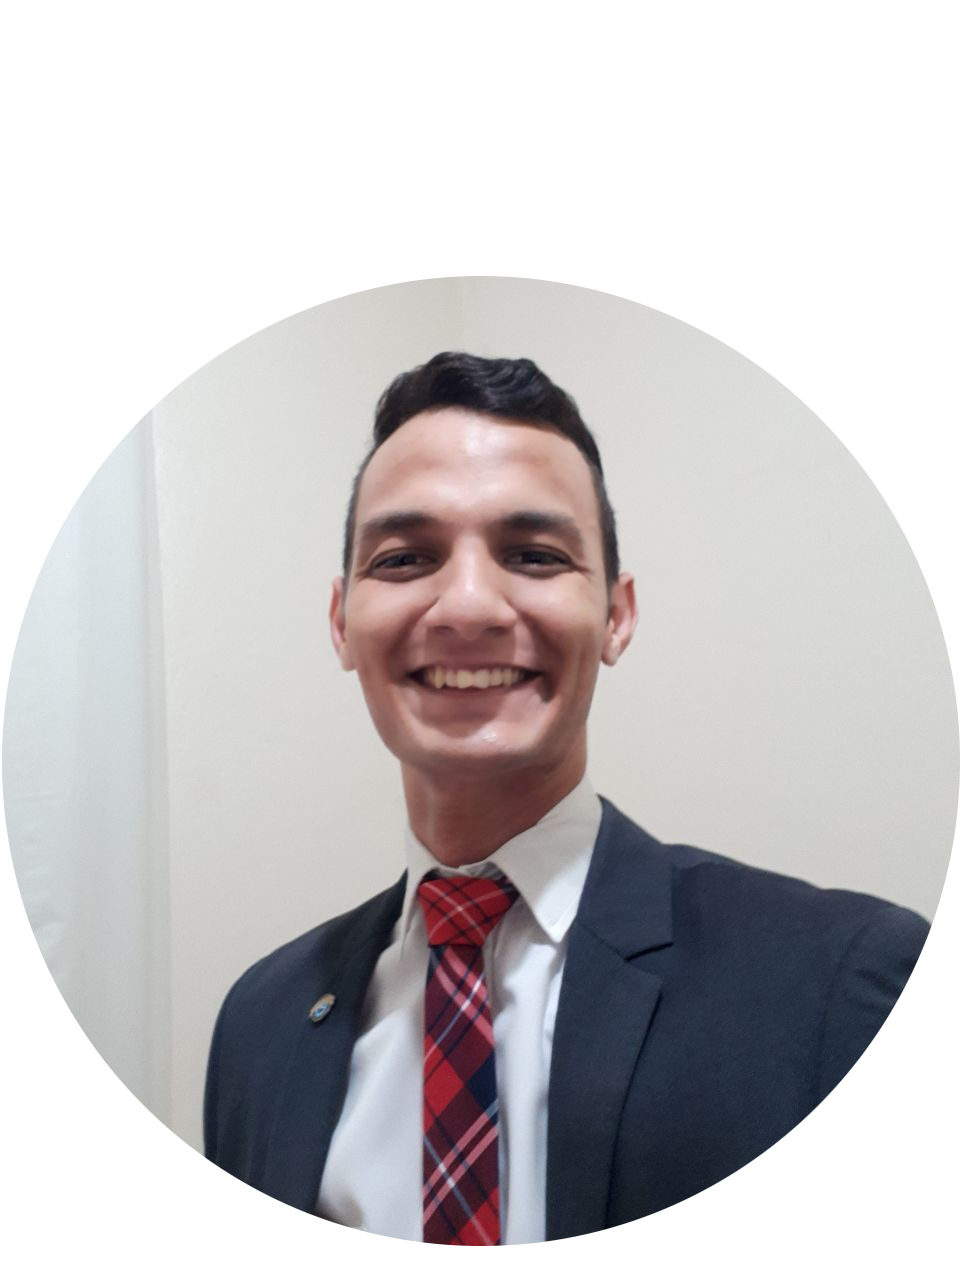
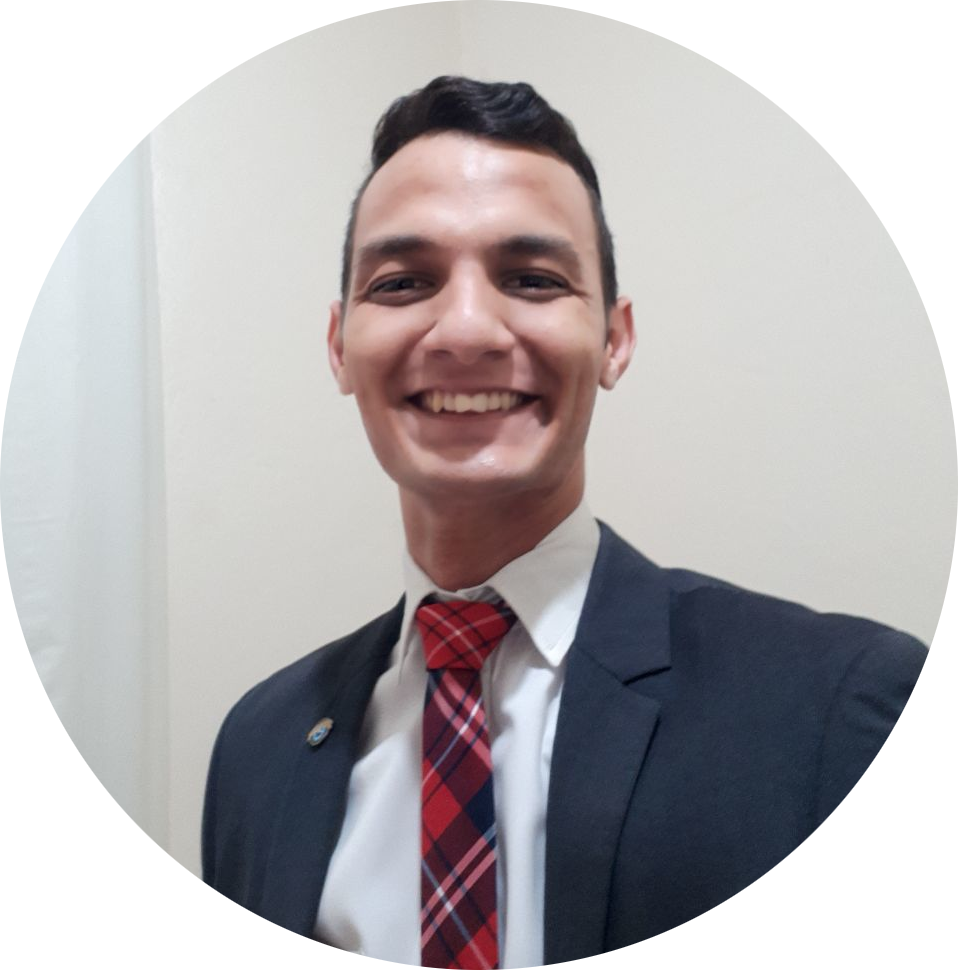
Add sections 'about me' and 'skills'

diff --git a/index.html b/index.html
@@ -7,6 +7,10 @@
   <meta name="viewport" content="width=device-width, initial-scale=1.0" />
   <!--Bootstrap CSS-->
   <link rel="stylesheet" href="https://cdn.jsdelivr.net/npm/bootstrap@5.2.1/dist/css/bootstrap.min.css" />
+  <!--Font awesome-->
+  <link rel="stylesheet" href="https://cdnjs.cloudflare.com/ajax/libs/font-awesome/6.2.0/css/all.min.css"
+    integrity="sha512-xh6O/CkQoPOWDdYTDqeRdPCVd1SpvCA9XXcUnZS2FmJNp1coAFzvtCN9BmamE+4aHK8yyUHUSCcJHgXloTyT2A=="
+    crossorigin="anonymous" referrerpolicy="no-referrer" />
   <!--Style-->
   <link rel="stylesheet" href="styles.css" />
 
@@ -27,11 +31,11 @@
           </button>
           <div class="collapse navbar-collapse justify-content-end" id="navbarNav">
             <div class="navbar-nav nav-tabs nav">
-              <a href="#" class="link text-light fw-semibold nav-link ps-2 pe-2">Home</a>
-              <a href="#" class="link text-light fw-semibold nav-link ps-2 pe-2">About me</a>
+              <a href="#home" class="link text-light fw-semibold nav-link ps-2 pe-2">Home</a>
+              <a href="#about-me" class="link text-light fw-semibold nav-link ps-2 pe-2">About me</a>
+              <a href="#skills" class="link text-light fw-semibold nav-link ps-2 pe-2">Skills</a>
               <a href="#" class="link text-light fw-semibold nav-link ps-2 pe-2">Experience</a>
               <a href="#" class="link text-light fw-semibold nav-link ps-2 pe-2">Projects</a>
-              <a href="#" class="link text-light fw-semibold nav-link ps-2 pe-2">Skills</a>
               <a href="#" class="link text-light fw-semibold nav-link ps-2 pe-2">Contact me</a>
             </div>
           </div>
@@ -43,32 +47,109 @@
           Hi, I'm Randy <br />
           <small class="text-muted">A Full-Stack web developer</small>
         </h1>
+        <!--Buttons-->
         <div class="container-fluid">
-          <button type="button" class="bt btn btn-success m-2">
+          <button type="button" class="btn btn-success m-2">
             Download CV
           </button>
-          <button type="button" class="bt btn btn-secondary m-2">Contact me!</button>
+          <button type="button" class="btn btn-secondary m-2">Contact me!</button>
         </div>
+        <!--End Buttons-->
       </div>
+      <!--End title-->
+      <!--Image-->
       <div class="imagen col d-flex flex-column justify-content-center h-75">
         <img class="img-fluid" src="img/undraw_freelancer_re_irh4.svg" alt="Developer" />
       </div>
+      <!--End Image-->
     </section>
-    <section id="about-me" class="vh-100">
-      <div class="m-5">
-        <picture class="text-center">
-          <img src="img/photo.png" alt="Randy">
-          <figcaption class="mt-3">
-            Randy Muñoz
+    <!--About me-->
+
+    <section class="row vh-100">
+      <div id="about-me" class="col m-4 p-4 bg rounded shadow">
+        <h2 class="fs-3 text-center"><span class="subtitle pe-2 ps-2 rounded">About me</span></h2>
+        <picture class="d-flex flex-column align-items-center">
+          <img class="img m-3" src="img/photo.png" alt="Randy">
+          <figcaption class="mt-1">
+            <h5 class="fs-6">Randy Ricardo Muñoz Viñoles</h5>
           </figcaption>
         </picture>
-        <div class="">
-          <p>Lorem ipsum dolor sit amet consectetur adipisicing elit. Molestiae asperiores officia ea iusto minus velit ratione quas expedita laborum autem temporibus obcaecati, aut assumenda eos vel quibusdam rem amet officiis! Lorem ipsum dolor, sit amet consectetur adipisicing elit. Ut ex maiores mollitia voluptates voluptatum numquam minima enim ullam esse sequi est culpa, praesentium explicabo placeat aliquid modi, in nostrum aliquam!</p>
+        <div class="description mt-2 tex">
+          <p>Hello! I'm Randy Muñoz, Full Stack developer based in Londrina/PR, Brazil. <br>
+            I am currently starting my developer career at TATA Consultancy Services as a trainee. In my spare time I
+            enjoy spending time with my wife, watching series and movies, playing video games, and working on my own
+            projects. My preferred development tools are Spring Boot, HTML, CSS, and JavaScript.</p>
+          <button type="button" class="btn btn-success">
+            Download CV
+          </button>
+        </div>
+      </div>
+      <!--End About me-->
+      <!--Skills-->
+      <div id="skills" class="col m-4 p-4 bg rounded shadow">
+        <h2 class="fs-3 text-center"><span class="subtitle ps-2 pe-2 rounded">Skills</span></h2>
+        <div class="icons-frontend text-center">
+          <h3 class="m-3">Frontend</h3>
+          <div class="d-inline-flex flex-column m-2">
+            <i class="skill-icon fa-brands fa-html5"></i>
+            <span class="mt-2 fw-semibold">HTML5</span>
+          </div>
+          <div class="d-inline-flex flex-column m-2">
+            <i class="skill-icon fa-brands fa-css3"></i>
+            <span class="mt-2 fw-semibold">CSS3</span>
+          </div>
+          <div class="d-inline-flex flex-column m-2">
+            <i class="skill-icon fa-brands fa-square-js"></i>
+            <span class="mt-2 fw-semibold">JavaScript</span>
+          </div>
+          <div class="d-inline-flex flex-column m-2">
+            <i class="skill-icon fa-brands fa-bootstrap"></i>
+            <span class="mt-2 fw-semibold">Bootstrap</span>
+          </div>
+          <div class="d-inline-flex flex-column m-2">
+            <i class="skill-icon fa-brands fa-angular"></i>
+            <span class="mt-2 fw-semibold">Angular</span>
+          </div>
+        </div>
+        <div class="icons-backend text-center">
+          <h3 class="m-3">Backend</h3>
+          <div class="d-inline-flex flex-column m-2">
+            <i class="skill-icon fa-brands fa-java"></i>
+            <span class="mt-2 fw-semibold">Java</span>
+          </div>
+          <div class="d-inline-flex flex-column m-2">
+            <i class="skill-icon fa-brands fa-aws"></i>
+            <span class="mt-2 fw-semibold">AWS</span>
+          </div>
+          <div class="d-inline-flex flex-column m-2">
+            <i class="skill-icon fa-solid fa-database"></i>
+            <span class="mt-2 fw-semibold">MySQL</span>
+          </div>
+          <div class="icon d-inline-flex flex-column m-2">
+            <i class="skill-icon fa-solid fa-leaf"></i>
+            <span class="mt-2 fw-semibold">Spring boot</span>
+          </div>
+        </div>
+        <div class="icons-tools text-center">
+          <h3 class="m-3">Tools</h3>
+          <div class="icon d-inline-flex flex-column m-2">
+            <i class="skill-icon fa-brands fa-git-alt"></i>
+            <span class="mt-2 fw-semibold">Git</span>
+          </div>
+
         </div>
       </div>
     </section>
   </div>
 
+
+  <a href="#"><i class="fa-brands fa-instagram"></i></a>
+  <a href="#"><i class="fa-brands fa-linkedin"></i></a>
+  <a href="#"><i class="fa-brands fa-github"></i></a>
+  <a href="#"><i class="fa-brands fa-discord"></i></a>
+  <a href="#"><i class="fa-solid fa-envelope"></i></a>
+  <a href="#"><i class="fa-brands fa-telegram"></i></a>
+  <a href="#"><i class="fa-solid fa-paper-plane"></i></a>
   <!--Bootstrap JS-->
   <script src="https://cdn.jsdelivr.net/npm/bootstrap@5.2.1/dist/js/bootstrap.bundle.min.js"></script>
 </body>

diff --git a/styles.css b/styles.css
@@ -1,68 +1,95 @@
 :root {
     --green: #198754;
-    --green-shadow-inset:#0a3622;
-    --bg-about-me: rgba(33,37,41, 0.5);
+    --green-shadow-inset: #0a3622;
+    --bg-about-me: rgba(17, 18, 19, 0.3);
+    --light-shadow: #ddd;
+    --bg-subtitle: #1C1D1E;
 }
 
+/*Home*/
 
-.link:hover{
+.link:hover {
     background-color: var(--green);
     box-shadow: 0 0 5px var(--green-shadow-inset) inset;
     transition: 300ms;
 }
 
-.title{
+.title {
     animation: showTitle 600ms linear;
 }
 
 @keyframes showTitle {
-    from{
+    from {
         transform: translateX(-100%);
     }
-    to{
+
+    to {
         transform: translateX(0%);
     }
 }
 
-.imagen{
+.imagen {
     animation: showImage 1s linear;
 }
 
 @keyframes showImage {
-    from{
+    from {
         transform: translateY(200%);
     }
-    to{
+
+    to {
         transform: translateY(0%);
     }
-    
+
 }
 
-.navbar{
+.navbar {
     animation: showNavbar 800ms linear;
 }
 
 @keyframes showNavbar {
-    from{
+    from {
         transform: translateX(100%);
     }
-    to{
+
+    to {
         transform: translateX(0%);
     }
 }
 
-#about-me img{
-width: 150px;
+/*About me*/
+
+.img {
+    width: 35% !important;
+}
+
+.description {
+    text-align: justify;
+}
+
+.subtitle{
+    background-color: var(--green);
+    box-shadow: -3px 3px 0px var(--light-shadow);
+}
+
+.bg {
+ background-color: var(--bg-about-me) ;
+}
+
+/*Skills*/
+
+.skill-icon{
+    font-size: 4rem;
 }
 
 /*Responsive*/
 
-@media (max-width: 767px ) {
-    .imagen{
+@media (max-width: 767px) {
+    .imagen {
         display: none !important;
     }
-    
-    .title{
+
+    .title {
         text-align: center;
     }
 }
